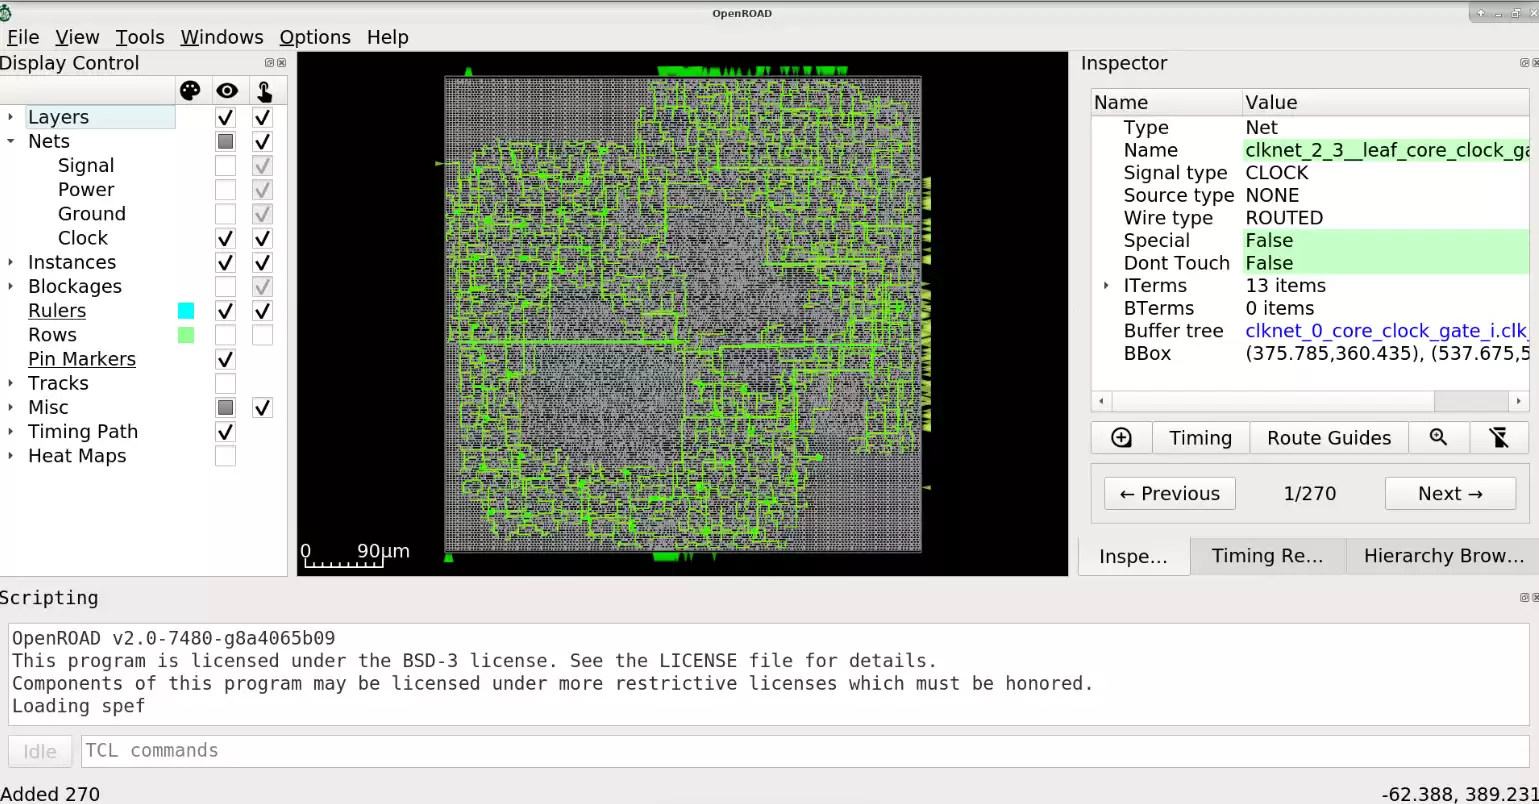
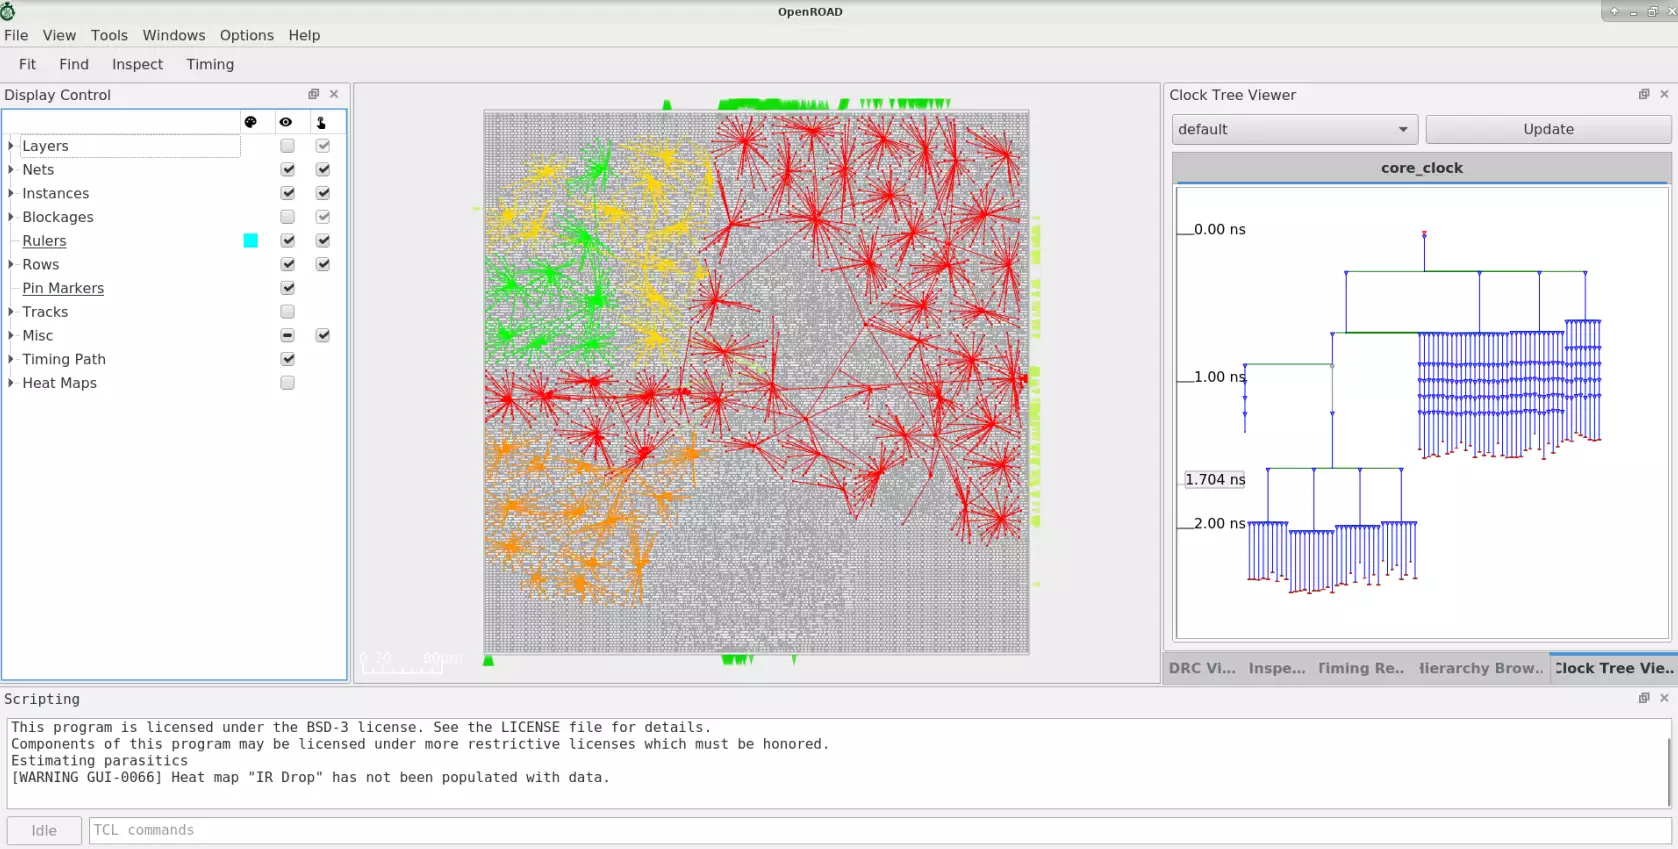
sync readme OR images

diff --git a/README.md b/README.md
@@ -104,22 +104,28 @@ using OpenROAD;
 
 The OpenROAD GUI is a powerful visualization, analysis, and debugging
 tool with a customizable Tcl interface. The below figures show GUI views for
-various flow stages including post-routed timing, placement congestion, and
-CTS.
+various flow stages including floorplanning, placement congestion,
+CTS and post-routed design.
 
-![ibexGui.webp](./docs/images/ibexGui.webp)
+#### Floorplan
 
-### Automatic Hierarchical Macro Placement
+![ibex_floorplan.webp](./docs/images/ibex_floorplan.webp)
+
+#### Automatic Hierarchical Macro Placement
 
 ![Ariane133](./docs/images/ariane133_mpl2.webp)
 
-### Placement Congestion Visualization
+#### Placement Congestion Visualization
 
 ![pl_congestion.webp](./docs/images/pl_congestion.webp)
 
-### CTS
+#### CTS
 
 ![clk_routing.webp](./docs/images/clk_routing.webp)
+
+#### Routing
+
+![ibex_routing.webp](./docs/images/ibex_routing.webp)
 
 ### PDK Support
 
